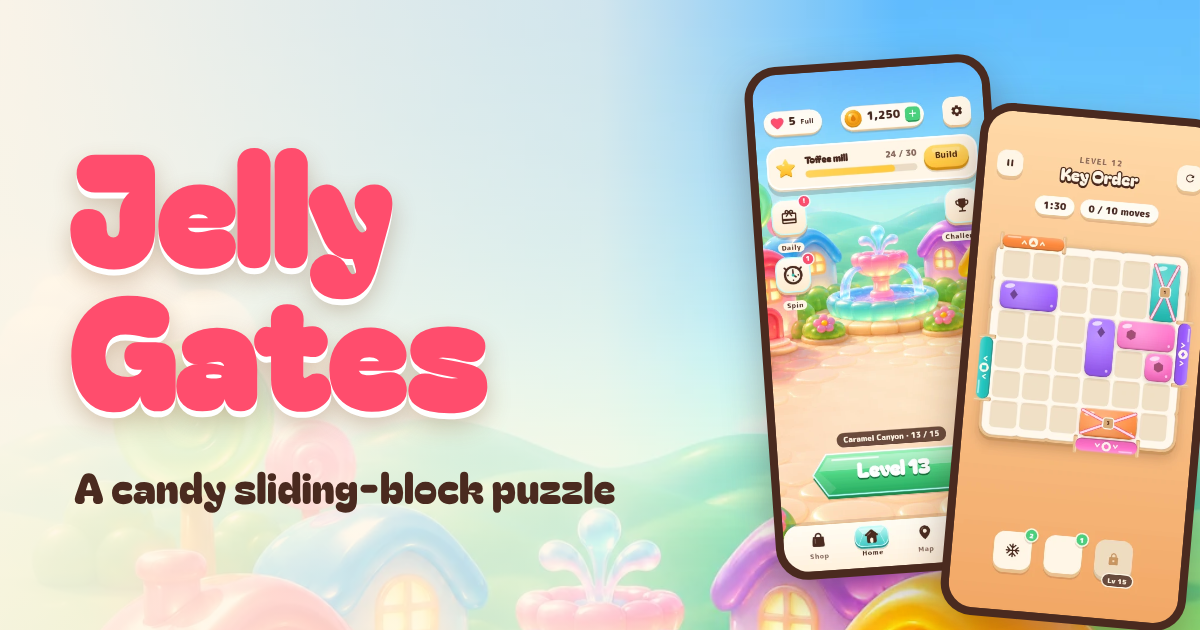
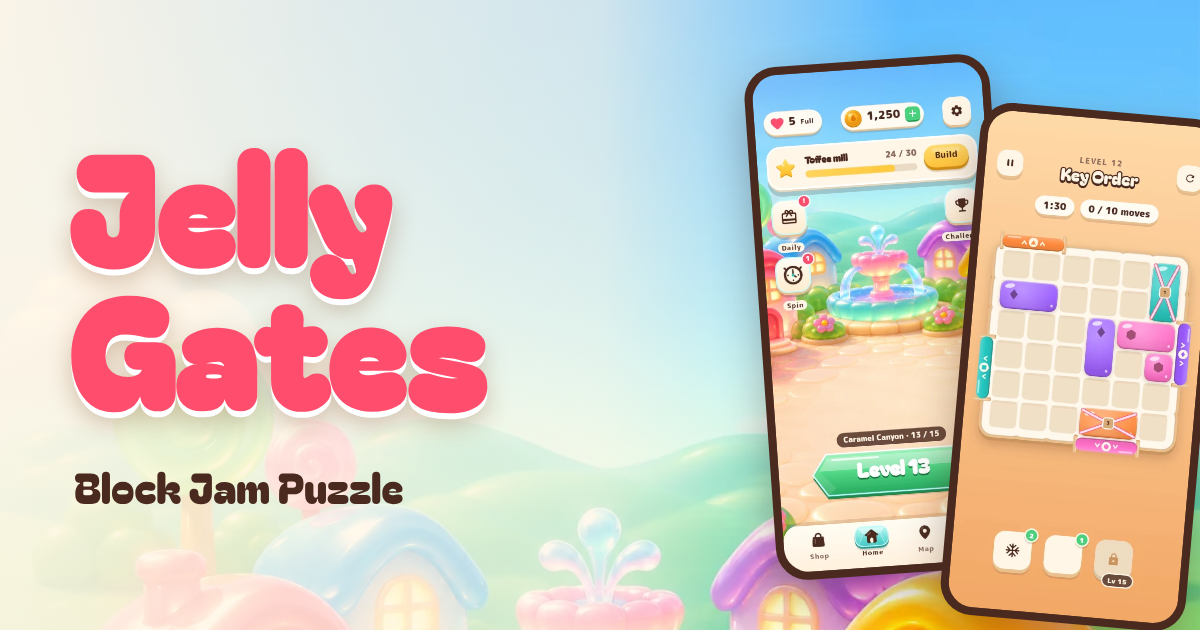
Rename to Jelly Gates: Block Jam Puzzle, set Hostinger subdomain, swap Press for Privacy in header
Claude-Session: https://claude.ai/code/session_01EV6BAb5FUZiPhLiUpAzwuP

Changed region(s): [[0.0617, 0.754, 0.5242, 0.8143]]

diff --git a/lib/site.ts b/lib/site.ts
@@ -1,14 +1,14 @@
-// STATIC: SITE_URL is a placeholder until the real domain exists. Set NEXT_PUBLIC_SITE_URL at build time
-// (include the sub-path for GitHub project pages, e.g. https://owner.github.io/Jelly-gates-landing-page).
-export const SITE_URL = (process.env.NEXT_PUBLIC_SITE_URL || "https://example.com").replace(/\/$/, "");
+// Production domain (Hostinger subdomain). Override with NEXT_PUBLIC_SITE_URL for previews.
+export const SITE_URL = (process.env.NEXT_PUBLIC_SITE_URL || "https://jellygates.wakeupmonster.com").replace(/\/$/, "");
 export const BASE_PATH = process.env.NEXT_PUBLIC_BASE_PATH || "";
 
 export const SITE = {
   name: "Jelly Gates",
+  fullName: "Jelly Gates: Block Jam Puzzle",
   developer: "Wakeup Monster", // STATIC: confirm legal entity name
   tagline: "A candy sliding-block puzzle game for Android and iOS",
   description:
-    "Jelly Gates is a candy-themed sliding-block puzzle game by Wakeup Monster. Slide coloured jellies out through the gate of the same colour, build a sweet jelly town and play daily challenges on Android and iOS.",
+    "Jelly Gates: Block Jam Puzzle is a candy-themed sliding-block puzzle game by Wakeup Monster. Slide coloured jellies out through the gate of the same colour, build a sweet jelly town and play daily challenges on Android and iOS.",
   // STATIC: store links not available yet
   playUrl: "#",
   appStoreUrl: "#",
@@ -31,7 +31,7 @@ export const SCREENS = [
 ] as const;
 
 export const FAQ: { q: string; a: string }[] = [
-  { q: "What is Jelly Gates?", a: "Jelly Gates is a candy-themed sliding-block puzzle game by Wakeup Monster for Android and iOS. You slide coloured jellies across a board and out through the gate that matches their colour and symbol." },
+  { q: "What is Jelly Gates: Block Jam Puzzle?", a: "Jelly Gates: Block Jam Puzzle (Jelly Gates for short) is a candy-themed sliding-block puzzle game by Wakeup Monster for Android and iOS. You slide coloured jellies across a board and out through the gate that matches their colour and symbol." },
   { q: "How do you play Jelly Gates?", a: "Drag each jelly out through the gate with its colour and symbol. Clear the board before the timer runs out; fewer moves earn more stars. Stars build your jelly town, and coins buy boosters and refills." },
   { q: "Which devices does Jelly Gates run on?", a: "Jelly Gates is made for Android phones (Google Play) and iPhones (App Store). Store links will appear on this site when the game launches." },
   { q: "Is Jelly Gates free?", a: "Jelly Gates is built as a free-to-play game supported by optional rewarded ads and optional in-app purchases such as coin packs, extra moves, remove ads and cosmetics." },

diff --git a/app/page.tsx b/app/page.tsx
@@ -12,11 +12,11 @@ import { BASE_PATH, FAQ, SCREENS, SITE } from "@/lib/site";
 
 export const metadata: Metadata = {
   ...pageMetadata({
-    title: `${SITE.name}: ${SITE.tagline}`,
+    title: `${SITE.fullName} | Candy Sliding Block Game`,
     description: SITE.description,
     path: "/",
   }),
-  title: { absolute: `${SITE.name}: candy sliding-block puzzle game for Android & iOS` },
+  title: { absolute: `${SITE.fullName} | Candy Sliding Block Game` },
 };
 
 const features: { t: string; d: string; tile: string; sym: string }[] = [
@@ -34,7 +34,7 @@ const ld = {
     organizationLd,
     { "@type": "WebSite", "@id": abs("/#website"), url: abs("/"), name: SITE.name, publisher: { "@id": orgId }, inLanguage: "en" },
     {
-      "@type": ["MobileApplication", "VideoGame"], "@id": appId, name: SITE.name, description: SITE.description,
+      "@type": ["MobileApplication", "VideoGame"], "@id": appId, name: SITE.fullName, alternateName: SITE.name, description: SITE.description,
       applicationCategory: "GameApplication", genre: ["Puzzle", "Casual"], operatingSystem: "Android, iOS",
       gamePlatform: ["Android", "iOS"], inLanguage: "en", url: abs("/"),
       image: SCREENS.slice(0, 4).map((s) => abs(`${BASE_PATH}/img/screens/${s.file}.webp`)),
@@ -57,9 +57,9 @@ export default function Home() {
         <div className="cloud c1" aria-hidden="true" /><div className="cloud c2" aria-hidden="true" />
         <main id="main"><div className="wrap hero">
           <div>
-            <h1>Jelly Gates</h1>
+            <h1>Jelly Gates<small>Block Jam Puzzle</small></h1>
             <p className="tag">Slide the jellies. Match the gates. Pop the puzzle!</p>
-            <p className="lead">Jelly Gates is a candy sliding-block puzzle game for Android and iOS. Guide every coloured jelly out through the gate of its own colour, then build a sweet town with the stars you earn.</p>
+            <p className="lead">Jelly Gates: Block Jam Puzzle is a candy sliding-block puzzle game for Android and iOS. Guide every coloured jelly out through the gate of its own colour, then build a sweet town with the stars you earn.</p>
             <StoreBadges />
           </div>
           <div className="phones">

diff --git a/app/globals.css b/app/globals.css
@@ -28,6 +28,7 @@ nav.top a:hover{text-decoration:underline}
 @keyframes drift{to{translate:calc(100vw + 400px) 0}}
 .hero{display:grid;gap:32px;grid-template-columns:1fr;align-items:center;padding:24px 0 56px}
 .hero h1{font-size:clamp(2.8rem,9vw,5rem);line-height:1;margin:0 0 12px;color:var(--cherry);text-shadow:0 4px 0 #fff,0 8px 16px rgba(120,70,30,.25)}
+.hero h1 small{display:block;font-size:.34em;margin-top:.35em;color:var(--cocoa);text-shadow:0 2px 0 #fff;letter-spacing:.04em}
 .hero .tag{font-size:1.25rem;font-weight:700;margin:0 0 16px}
 .hero .lead{background:rgba(255,246,230,.8);border-radius:16px;padding:10px 14px;display:inline-block}
 .badges{display:flex;gap:12px;flex-wrap:wrap;margin-top:16px}

diff --git a/app/press/page.tsx b/app/press/page.tsx
@@ -15,10 +15,10 @@ const palette: [string, string][] = [["Cream", "#FFF6E6"], ["Caramel", "#E9C08E"
 export default function Press() {
   return (
     <main className="page" id="main"><div className="wrap">
-      <h1>Jelly Gates press kit</h1>
+      <h1>Jelly Gates: Block Jam Puzzle press kit</h1>
       <h2>Fact sheet</h2>
       <dl className="facts">
-        <dt>Game</dt><dd>Jelly Gates</dd>
+        <dt>Game</dt><dd>Jelly Gates: Block Jam Puzzle (short name: Jelly Gates)</dd>
         <dt>Developer</dt><dd>{SITE.developer}</dd>
         <dt>Genre</dt><dd>Sliding-block puzzle (casual)</dd>
         <dt>Platforms</dt><dd>Android (Google Play), iOS (App Store)</dd>

diff --git a/app/layout.tsx b/app/layout.tsx
@@ -18,7 +18,7 @@ const body = localFont({
 
 export const metadata: Metadata = {
   metadataBase: new URL(SITE_URL),
-  title: { default: `${SITE.name}: ${SITE.tagline}`, template: `%s | ${SITE.name}` },
+  title: { default: `${SITE.fullName} | Candy Sliding Block Game`, template: `%s | ${SITE.name}` },
   description: SITE.description,
   applicationName: SITE.name,
   authors: [{ name: SITE.developer }],

diff --git a/components/Header.tsx b/components/Header.tsx
@@ -9,7 +9,7 @@ export function Header() {
       <nav className="top" aria-label="Main">
         <Link href="/how-to-play/">How to play</Link>
         <Link href="/support/">Support</Link>
-        <Link href="/press/">Press</Link>
+        <Link href="/privacy/">Privacy</Link>
       </nav>
     </header>
   );

diff --git a/README.md b/README.md
@@ -1,6 +1,6 @@
-# Jelly Gates — website
+# Jelly Gates: Block Jam Puzzle — website
 
-Next.js (App Router, TypeScript) **static export**: `npm run build` writes plain HTML/CSS to `out/`, so it hosts on GitHub Pages or Firebase Hosting. No runtime server, no external CDNs; fonts (SIL OFL) are self-hosted. Pages work with JavaScript disabled.
+Next.js (App Router, TypeScript) **static export**: `npm run build` writes plain HTML/CSS to `out/`, so it hosts on any static host (Hostinger in production). No runtime server, no external CDNs; fonts (SIL OFL) are self-hosted. Pages work with JavaScript disabled.
 
 **Status:** draft. Placeholders are marked `STATIC:` in the code and listed in [`STATIC-NOTES.md`](STATIC-NOTES.md). Legal pages carry a "Draft — review by a lawyer" banner.
 
@@ -10,7 +10,7 @@ npm install
 npm run dev                 # http://localhost:3000
 npm run build && npx serve out   # preview the exported site
 ```
-Build-time settings (environment variables): `NEXT_PUBLIC_SITE_URL` (full public URL, used for canonical/Open Graph/sitemap/JSON-LD) and `NEXT_PUBLIC_BASE_PATH` (only for a sub-path such as `/Jelly-gates-landing-page`).
+Build-time settings (environment variables): `NEXT_PUBLIC_SITE_URL` (full public URL, used for canonical/Open Graph/sitemap/JSON-LD) and `NEXT_PUBLIC_BASE_PATH` (only if ever served from a sub-path).
 
 ## Structure
 - `app/` pages: `/`, `/how-to-play/`, `/support/`, `/press/`, `/privacy/`, `/terms/`, `/delete-data/`, `not-found`, `sitemap.ts`, `robots.ts`
@@ -27,10 +27,13 @@ Build-time settings (environment variables): `NEXT_PUBLIC_SITE_URL` (full public
 - Press kit page with entity facts (developer, genre, platforms, status).
 - After launch: add the real store URLs to `sameAs`/`downloadUrl`, submit the sitemap in Google Search Console and Bing Webmaster Tools.
 
-## Publish
-**GitHub Pages:** `.github/workflows/pages.yml` builds and deploys on push to `main`. Settings → Pages → Source: GitHub Actions. Set repository variables `SITE_URL` (and `BASE_PATH` if not on a custom domain at the root). For a custom domain add `public/CNAME`.
-**Firebase Hosting:** `npm run build`, `firebase init hosting` with public dir `out`, then `firebase deploy`.
-`app-ads.txt` must be served at the root of the domain listed as the developer website in the stores.
+## Publish (Hostinger, jellygates.wakeupmonster.com)
+1. In hPanel create the subdomain `jellygates` for `wakeupmonster.com` (Domains → Subdomains); enable the free SSL for it.
+2. Build locally: `npm install && npm run build`. The site is now in `out/` (it already includes `.htaccess`, `404.html`, `llms.txt`, `app-ads.txt`).
+3. Upload **the contents of `out/`** (not the folder itself) into the subdomain's `public_html` folder (hPanel File Manager or FTP), replacing old files.
+4. Open `https://jellygates.wakeupmonster.com/` and `/privacy/`, `/sitemap.xml`, `/robots.txt`, `/llms.txt`.
+The default site URL is `https://jellygates.wakeupmonster.com`; set `NEXT_PUBLIC_SITE_URL` only to build a preview on another host.
+`app-ads.txt`: AdMob reads it from the developer-website domain listed in the store listings. Confirm in AdMob's help whether the subdomain is accepted; otherwise serve it from `https://wakeupmonster.com/app-ads.txt` (see STATIC-NOTES.md).
 
 ## URLs for the store consoles (replace `<domain>`)
 | Field | URL |

diff --git a/STATIC-NOTES.md b/STATIC-NOTES.md
@@ -5,7 +5,7 @@ Search the code for `STATIC:` to find each one.
 | # | Item | File(s) | What the owner must provide |
 |---|---|---|---|
 | 1 | Google Play / App Store links | `lib/site.ts` (`playUrl`, `appStoreUrl`) | Store URLs (currently `#`); official badge artwork in `components/StoreBadges.tsx` |
-| 2 | AdMob publisher ID | `public/app-ads.txt` | Real `pub-…` id replacing `pub-XXXXXXXXXXXXXXXX` |
+| 2 | AdMob publisher ID + app-ads.txt location | `public/app-ads.txt` | Real `pub-…` id replacing `pub-XXXXXXXXXXXXXXXX`. **Open check:** confirm in AdMob help whether the file may be served from the subdomain; if not, host it at `wakeupmonster.com/app-ads.txt` and set that as the developer website in the stores |
 | 3 | Support / contact / press email | `lib/site.ts` (`email`) | Real address replacing `support@example.com` (no personal email) |
 | 4 | Company legal name & address | `app/privacy`, `app/terms`, `components/Footer.tsx`, `lib/site.ts` | Legal entity name and postal address (site says "Wakeup Monster") |
 | 5 | Governing law / venue | `app/terms/page.tsx` | Jurisdiction |
@@ -13,7 +13,7 @@ Search the code for `STATIC:` to find each one.
 | 7 | Age statement (under 13) — **owner decision to confirm** | `app/privacy/page.tsx`, FAQ in `lib/site.ts` | Confirm; must match store age ratings and AdMob child-directed setting |
 | 8 | Draft banner "Draft — review by a lawyer before publishing" | `components/LegalPage.tsx` (`draft` prop on privacy, terms, delete-data) | Remove at launch after legal review |
 | 9 | **In-app text mismatch** | `app/privacy/page.tsx`; game repo `settings_popup.dart` | In-app Privacy says "If you sign in with Google…", contradicting the no-login decision. Update the app (or this page) so they agree. In-app Terms is one line; link it to `/terms/` |
-| 10 | Site URL / domain | `NEXT_PUBLIC_SITE_URL` (build env / repo variable `SITE_URL`), `public/llms.txt` | Final URL; `llms.txt` links are root-relative. Default `https://example.com` |
+| 10 | Site URL / domain | `lib/site.ts` | **Set:** `https://jellygates.wakeupmonster.com` (Hostinger). Re-check if the domain changes |
 | 11 | Price model | FAQ in `lib/site.ts`, JSON-LD offer in `app/page.tsx`, `app/press` | Confirm free-to-play with ads and IAP (JSON-LD says price 0 USD) |
 | 12 | Release date / status | `app/press/page.tsx`, home band text | Launch date; replace "Coming soon" |
 | 13 | Restore-purchases menu path | `app/support/page.tsx`, FAQ | Confirm "Settings → Restore purchases" in the app |
